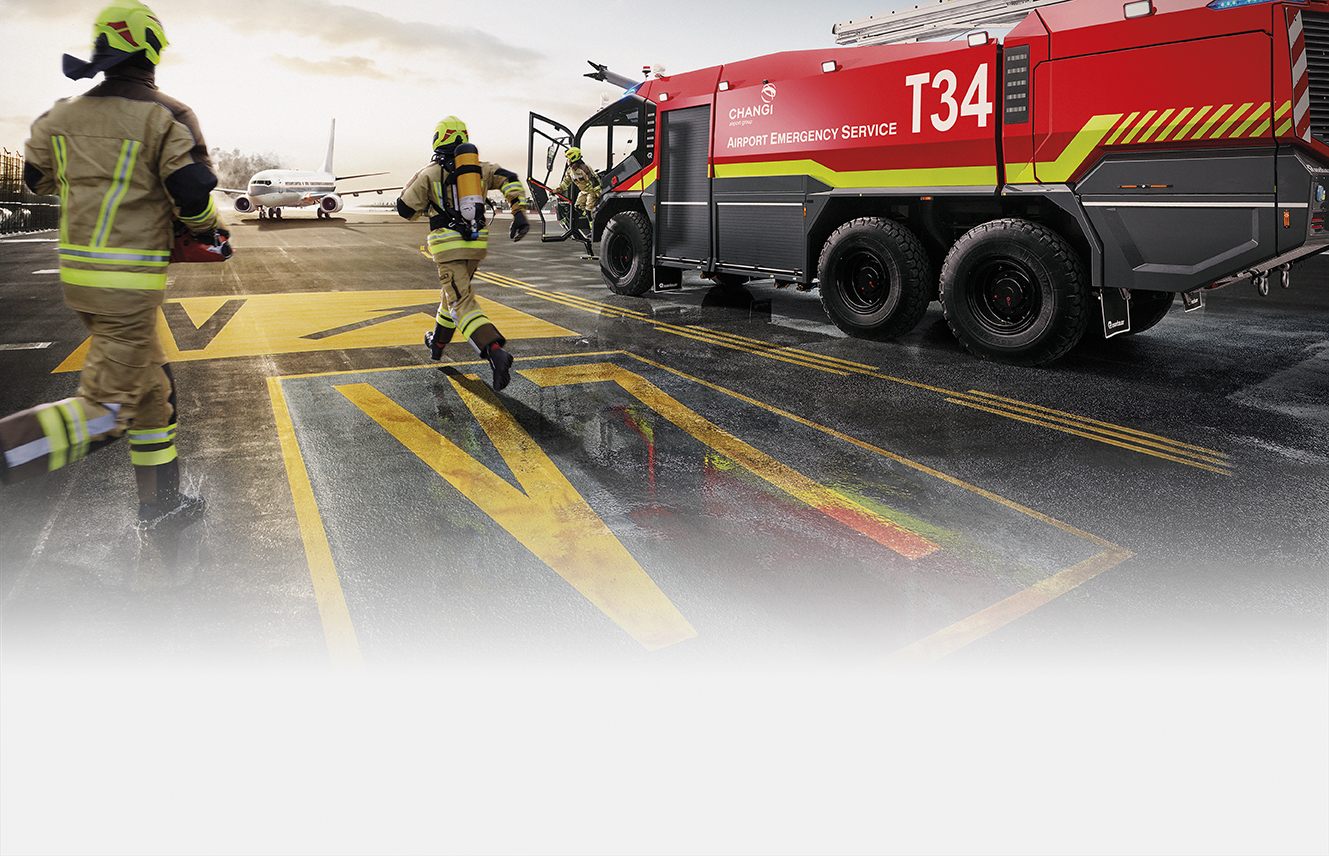
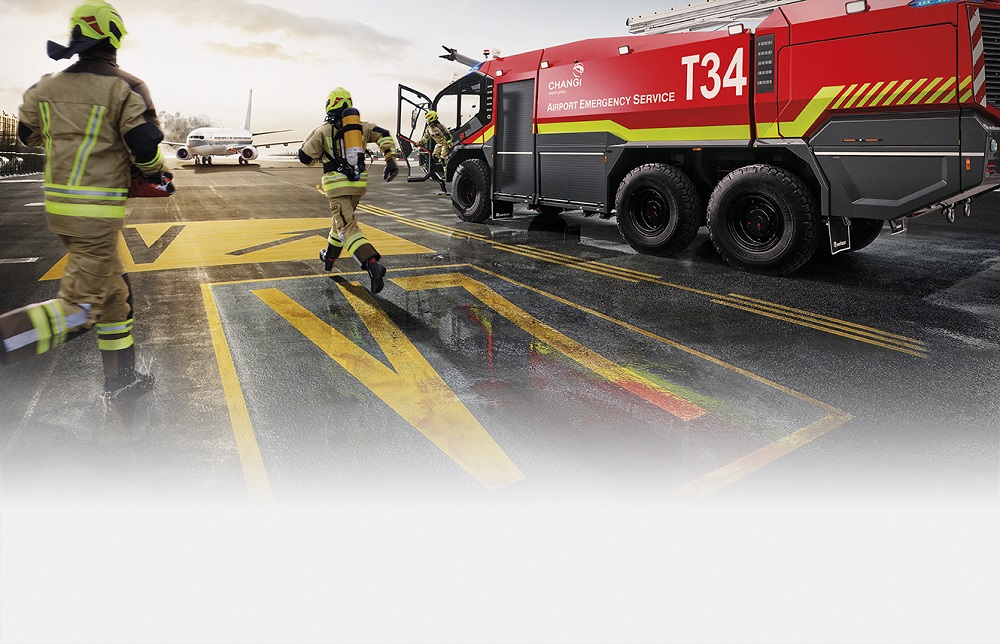
NEW: #4 - Add HTML Compressing Responses CHANGE: #4 - Improve Background Image Size

diff --git a/app/__init__.py b/app/__init__.py
@@ -9,12 +9,16 @@ from flask_sqlalchemy import SQLAlchemy
 from flask_migrate import Migrate
 from flask_oidc import OpenIDConnect
 from flask_mail import Mail
+from flask_compress import Compress
 from apscheduler.schedulers.background import BackgroundScheduler
 
 app = Flask(__name__)
 
 # Configurations
 app.config.from_object('config')
+
+# HTML Compress Response
+Compress(app)
 
 #app.debug = True
 #toolbar = DebugToolbarExtension(app)
